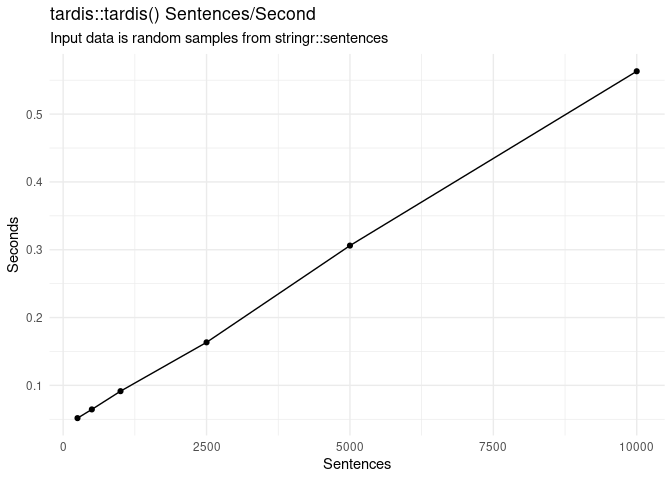
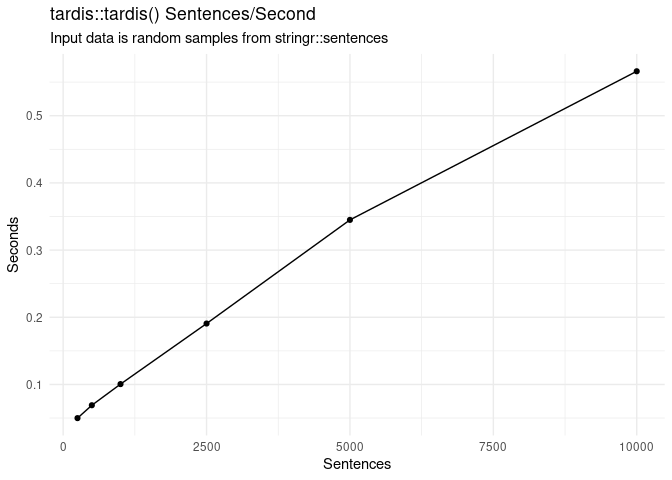
Updated punctuation handling; new cpp11 function count_punct_cpp11().

diff --git a/src/cpp11.cpp b/src/cpp11.cpp
@@ -19,9 +19,17 @@ extern "C" SEXP _tardis_get_nonzero_value_cpp11(SEXP x, SEXP y) {
     return cpp11::as_sexp(get_nonzero_value_cpp11(cpp11::as_cpp<cpp11::decay_t<cpp11::doubles>>(x), cpp11::as_cpp<cpp11::decay_t<cpp11::doubles>>(y)));
   END_CPP11
 }
+// code.cpp
+cpp11::integers count_punct_cpp11(cpp11::integers em, cpp11::integers qm);
+extern "C" SEXP _tardis_count_punct_cpp11(SEXP em, SEXP qm) {
+  BEGIN_CPP11
+    return cpp11::as_sexp(count_punct_cpp11(cpp11::as_cpp<cpp11::decay_t<cpp11::integers>>(em), cpp11::as_cpp<cpp11::decay_t<cpp11::integers>>(qm)));
+  END_CPP11
+}
 
 extern "C" {
 static const R_CallMethodDef CallEntries[] = {
+    {"_tardis_count_punct_cpp11",                    (DL_FUNC) &_tardis_count_punct_cpp11,                    2},
     {"_tardis_get_nonzero_value_cpp11",              (DL_FUNC) &_tardis_get_nonzero_value_cpp11,              2},
     {"_tardis_split_string_after_punctuation_cpp11", (DL_FUNC) &_tardis_split_string_after_punctuation_cpp11, 1},
     {NULL, NULL, 0}

diff --git a/src/code.cpp b/src/code.cpp
@@ -57,3 +57,22 @@ cpp11::doubles get_nonzero_value_cpp11(cpp11::doubles x, cpp11::doubles y) {
 
   return out;
 }
+
+[[cpp11::register]]
+cpp11::integers count_punct_cpp11(cpp11::integers em, cpp11::integers qm){
+  int n = em.size();
+
+  writable::integers out(n);
+
+  for (int i = 0; i < n; i++){
+    if (qm[i] == 1 && em[i] == 0) {
+      out[i] = 0;
+    } else {
+      if (qm[i] + em[i] < 3) out[i] = qm[i] + em[i];
+      if (qm[i] + em[i] >= 3) out[i] = 3;
+    }
+
+  }
+
+  return out;
+}

diff --git a/README.md b/README.md
@@ -67,8 +67,8 @@ tardis::tardis(text) %>%
 |:-----------------------|-----------:|
 | I am happy.            |  0.5718850 |
 | I am really happy.     |  0.6695383 |
-| I am really happy!     |  0.6987571 |
-| I am really not happy! | -0.5968026 |
+| I am really happy!     |  0.7197007 |
+| I am really not happy! | -0.6094200 |
 
 Tardis also handles blocks of text differently from other
 sentiment-analysis algorithms, most of which treat blocks of text as
@@ -86,9 +86,9 @@ tardis::tardis(text) %>%
   knitr::kable()
 ```
 
-| sentences_orig                                                                        |     score |  score_sd | score_range |
-|:--------------------------------------------------------------------------------------|----------:|----------:|------------:|
-| This sentence is neutral. This one is really happy! This one is absolutely miserable. | 0.0613416 | 0.6455055 |    1.290718 |
+| sentences_orig                                                                        |     score | score_sd | score_range |
+|:--------------------------------------------------------------------------------------|----------:|---------:|------------:|
+| This sentence is neutral. This one is really happy! This one is absolutely miserable. | 0.0683228 | 0.655876 |    1.311661 |
 
 Or even passive-aggressive hostility:
 
